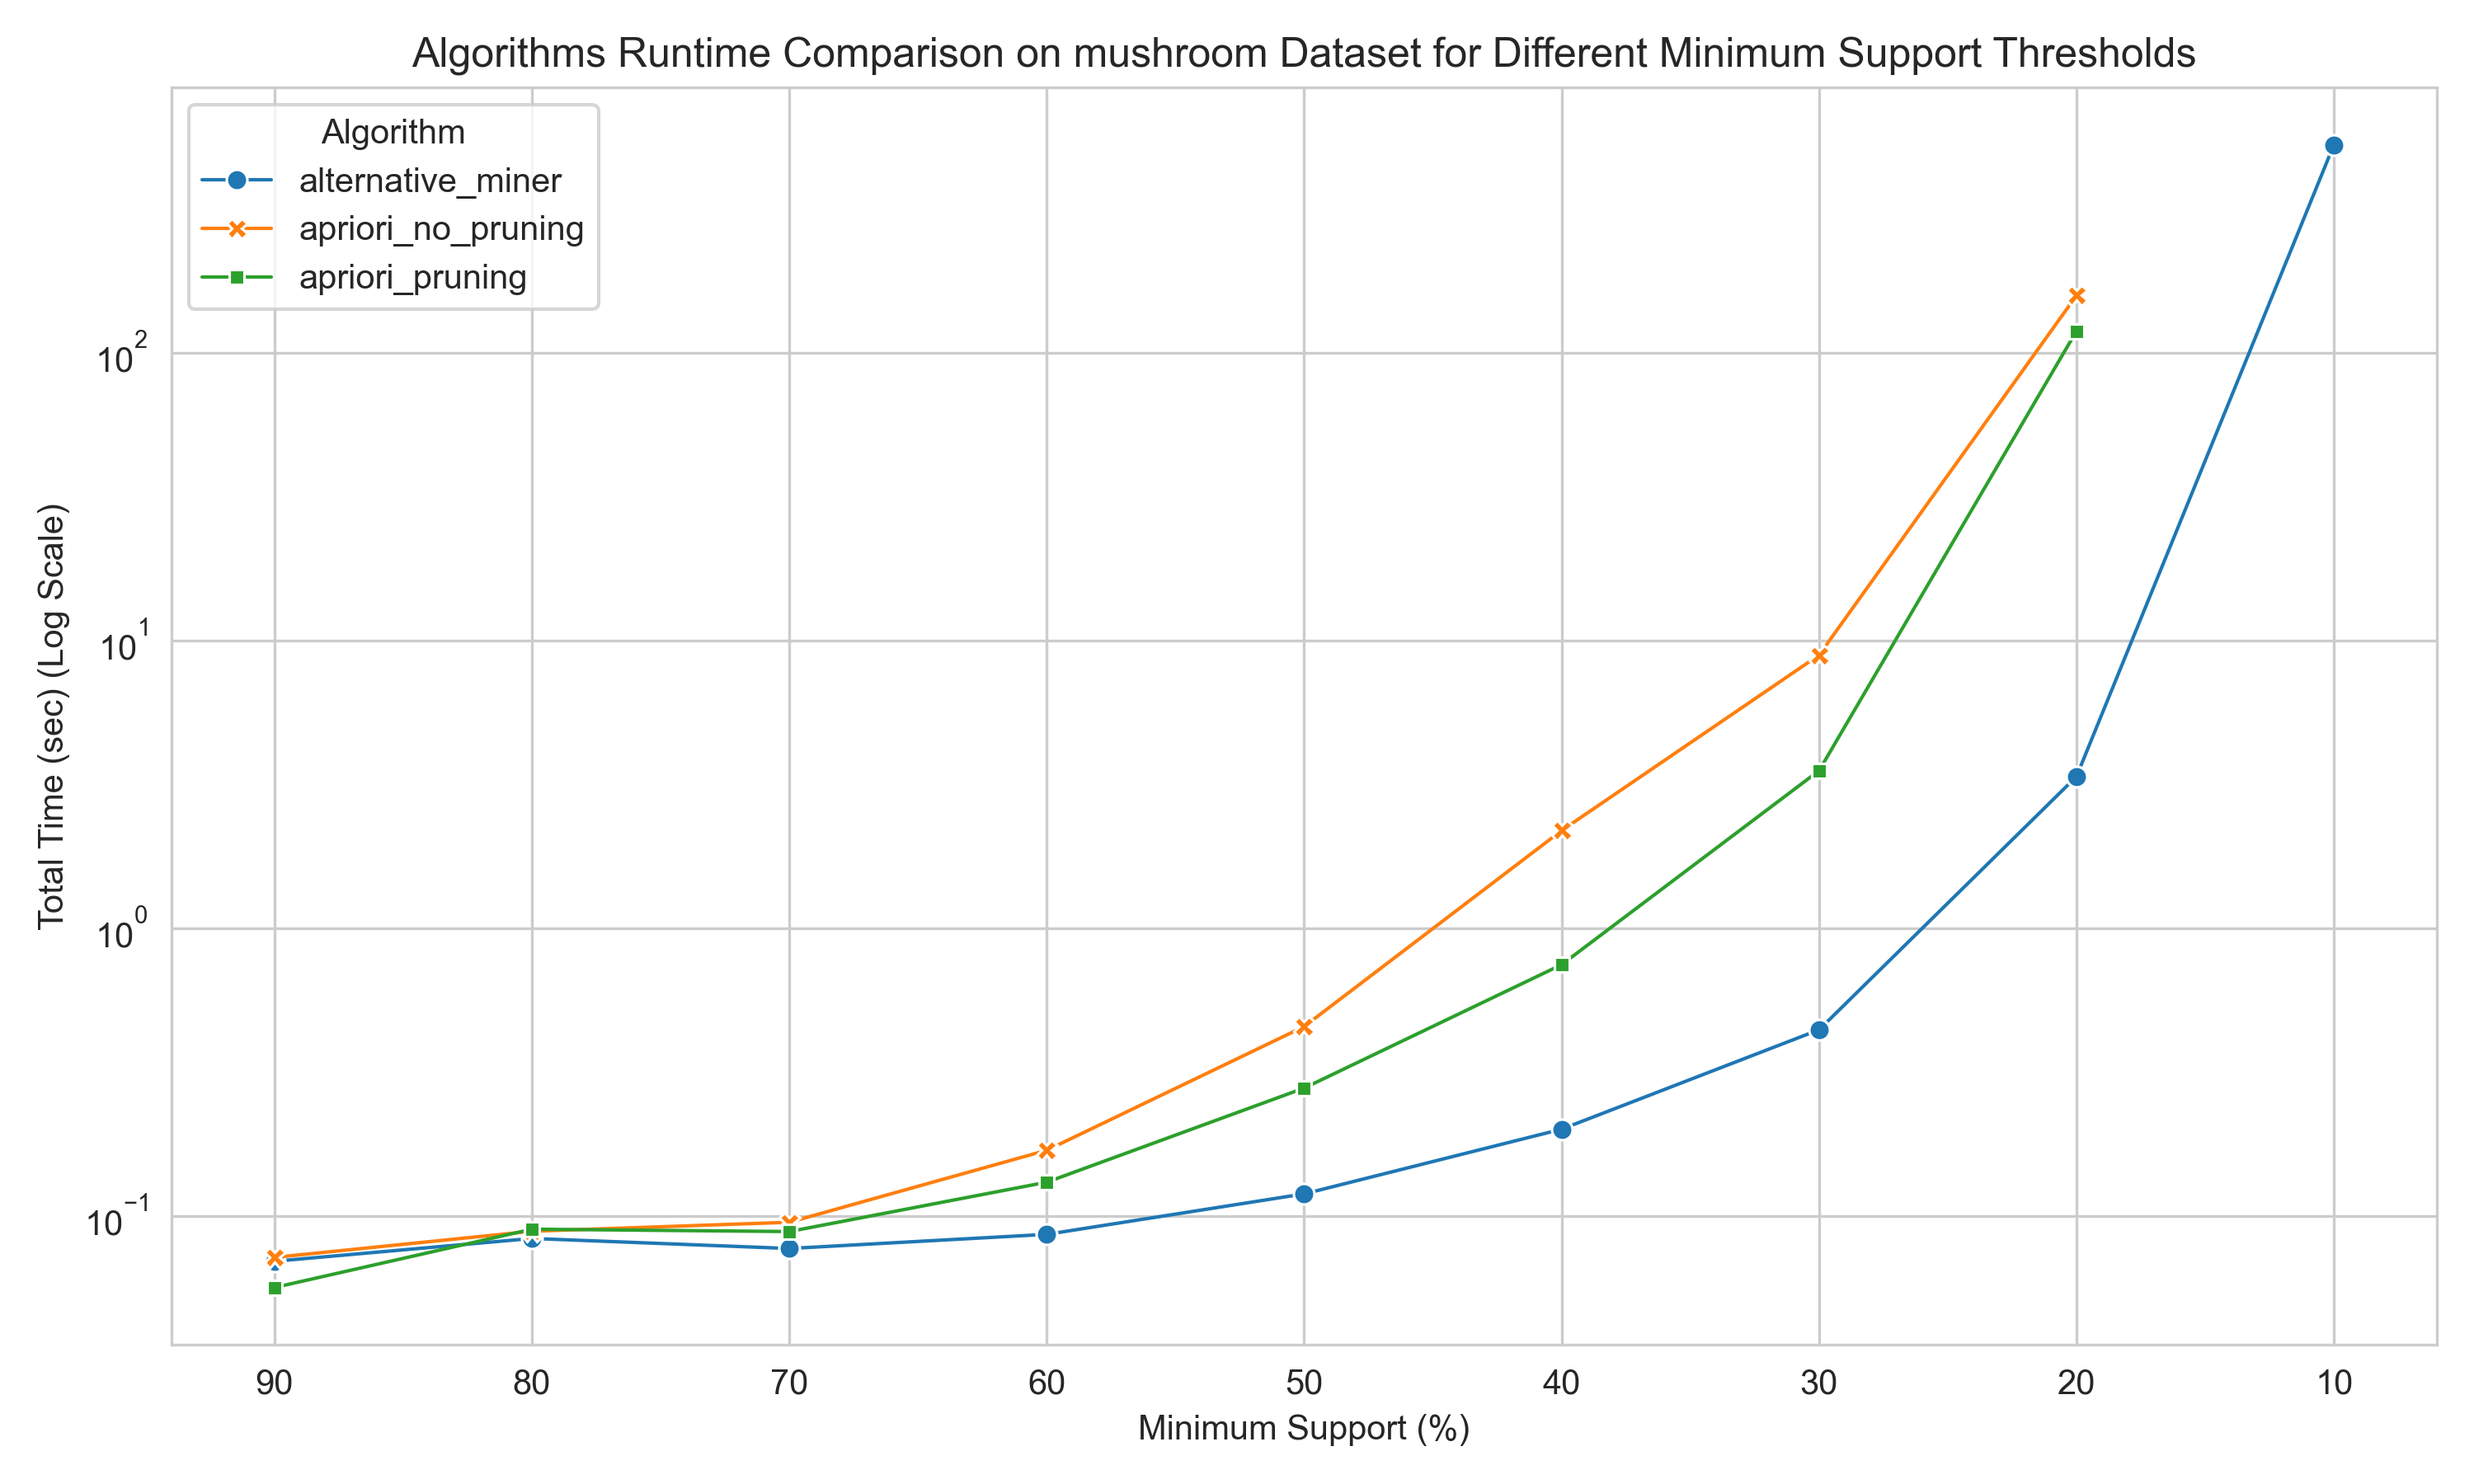
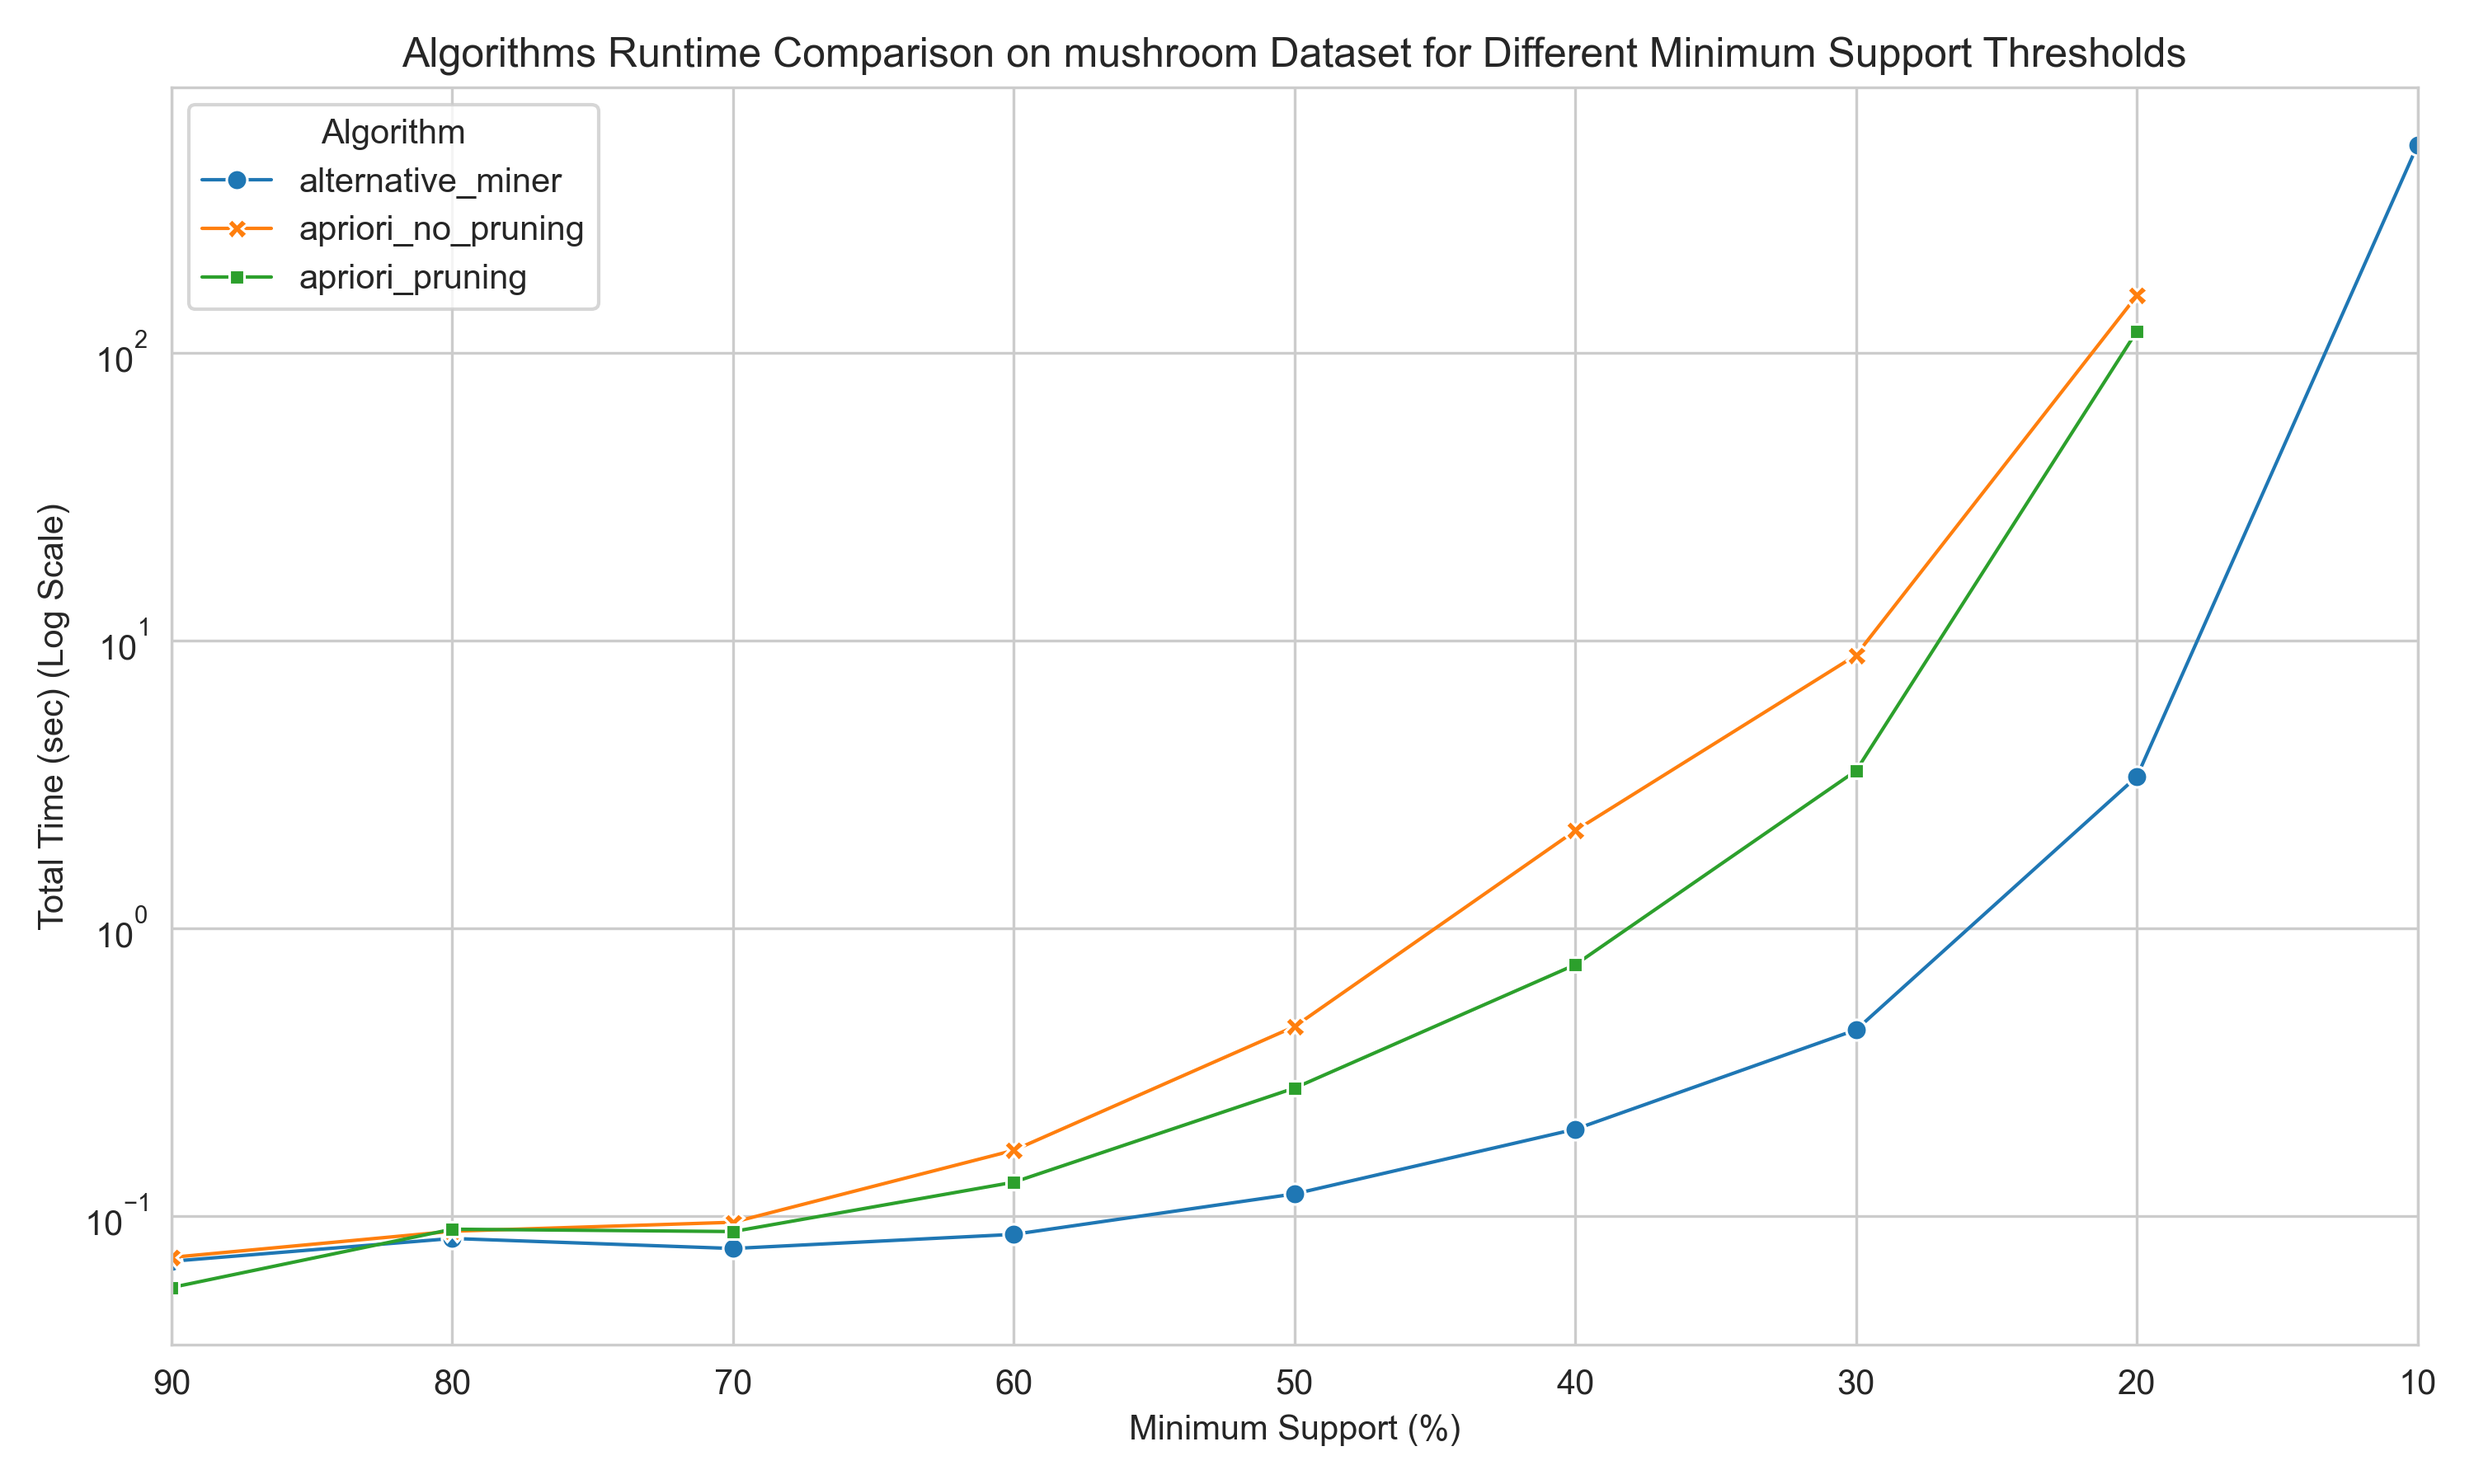
Modify plot to start and end on values

diff --git a/plot_results.py b/plot_results.py
@@ -72,6 +72,8 @@ def plot_dataset_results(dataset_name):
         mean_time=("time", "mean"),
         std_time=("time", "std")
     ).reset_index()
+    min_x = agg_df["threshold_pct"].min()
+    max_x = agg_df["threshold_pct"].max()
 
     plt.figure(figsize=(10, 6))
     sns.set_style("whitegrid")
@@ -94,8 +96,11 @@ def plot_dataset_results(dataset_name):
     plt.ylabel("Total Time (sec) (Log Scale)")
     plt.title(f"Algorithms Runtime Comparison on {dataset_name} Dataset for Different Minimum Support Thresholds")
     plt.legend(title="Algorithm", loc="upper left", frameon=True)
+
+    plt.xlim(min_x, max_x)
     plt.gca().invert_xaxis()
     plt.tight_layout()
+
     plt.savefig(f"{PLOTS_DIR}/{dataset_name}_by_algorithms.png", dpi=300)
 
 
